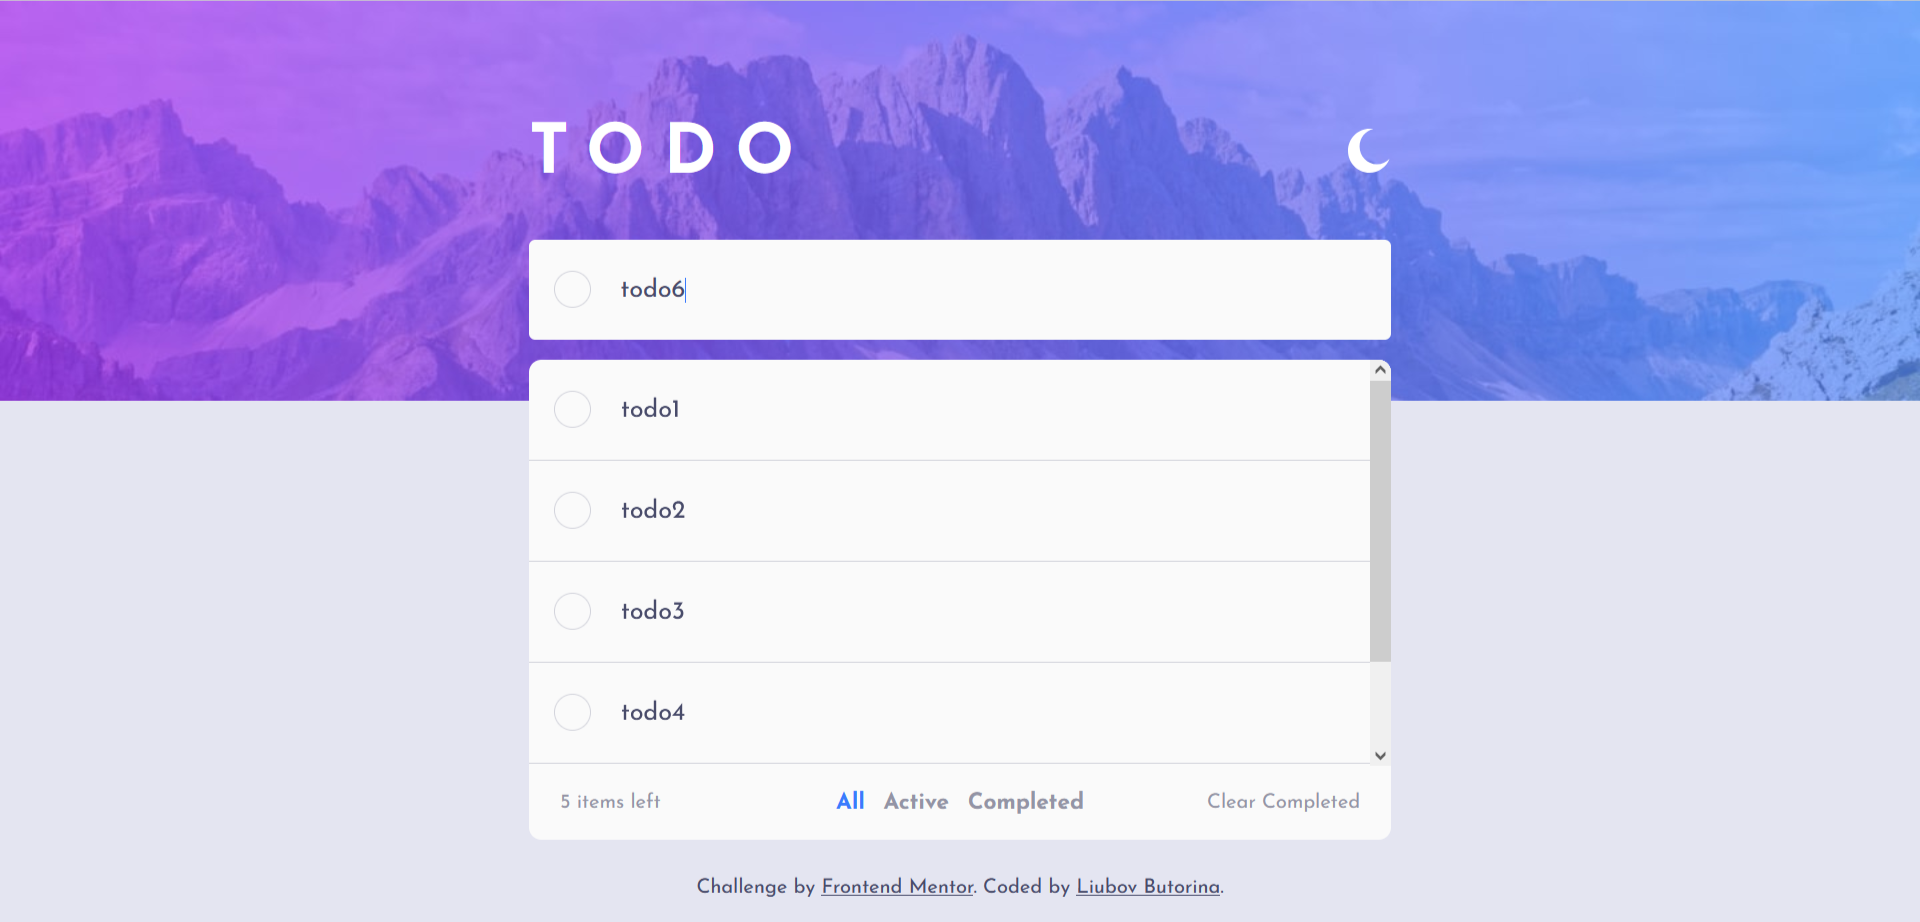
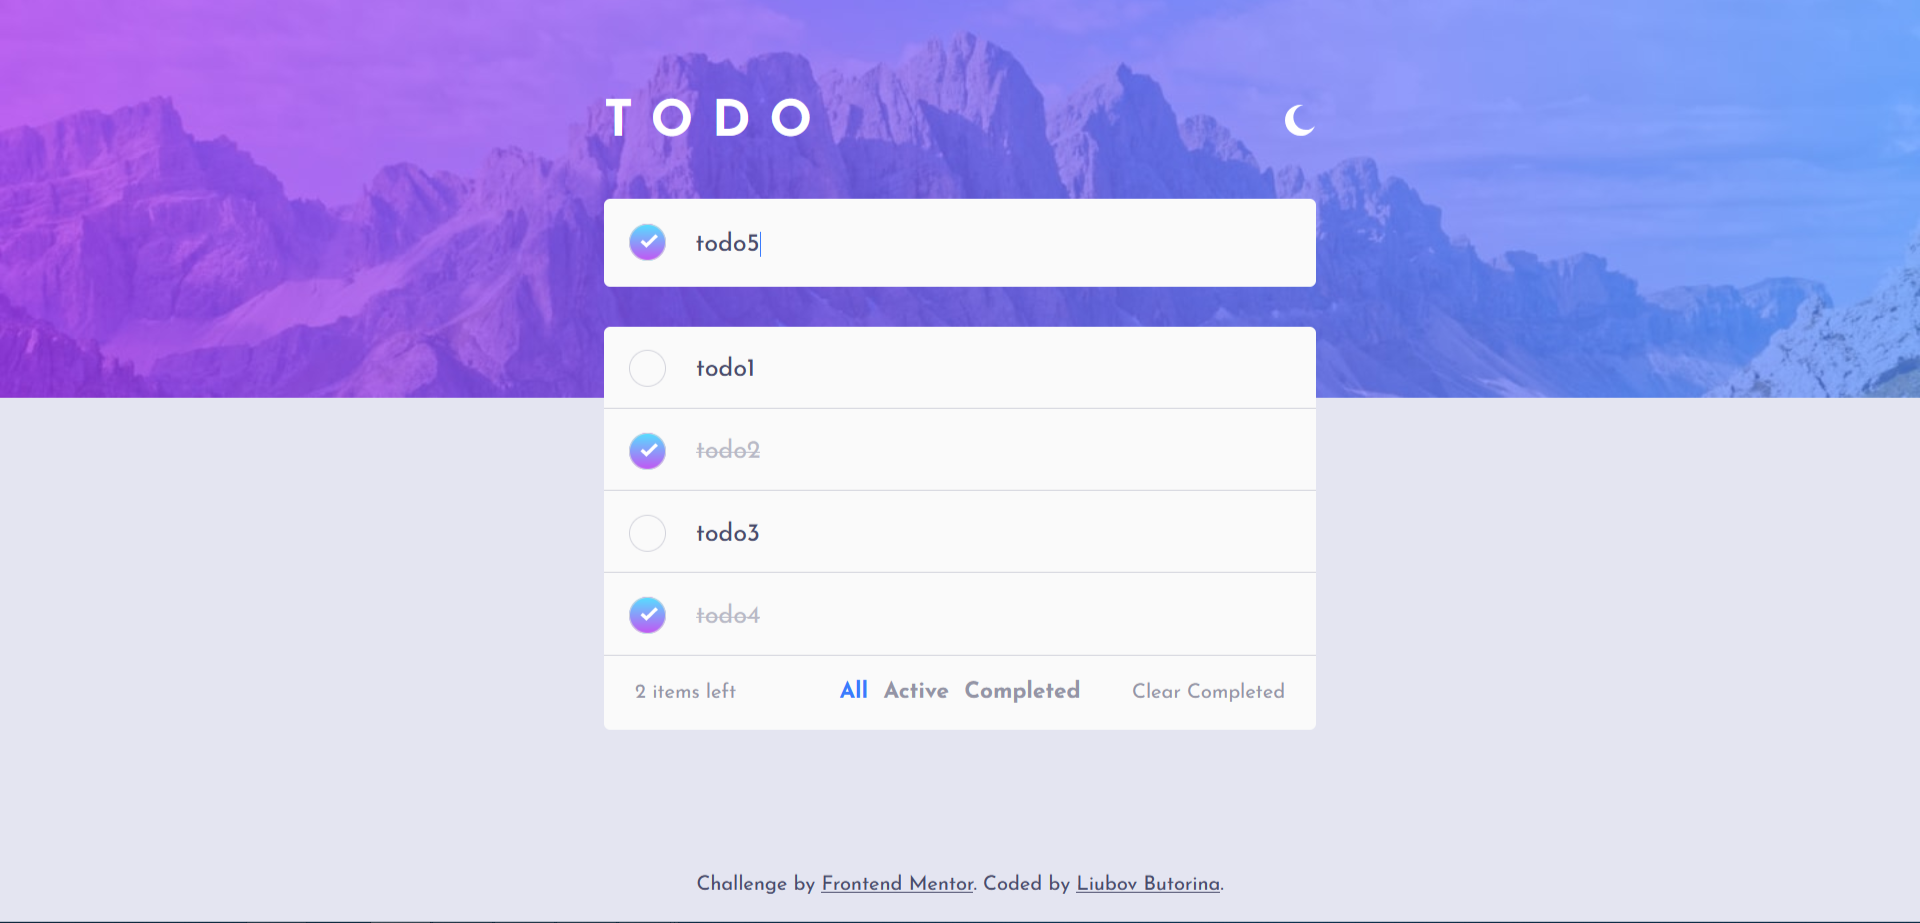
fix design

diff --git a/src/style.css b/src/style.css
@@ -66,7 +66,7 @@ body {
   margin-bottom: 2rem;
 
   width: 100%;
-  height: 70px;
+  height: 65px;
   
   background-color: hsl(0, 0%, 98%);
 
@@ -77,10 +77,10 @@ body {
   display: inline-block;
   position: relative;
   top: 20px;
-  left: 20px;
+  left: 24px;
 
-  width: 28px;
-  height: 28px;
+  width: 24px;
+  height: 24px;
 
   border-radius: 15px;
   border: thin solid hsl(233, 11%, 84%);
@@ -90,11 +90,11 @@ body {
 
 .icon-done {
   position: absolute;
-  top: 28px;
-  left: 29px;
+  top: 26px;
+  left: 31px;
   
-  width: 15px;
-  height: 12px;
+  width: 13px;
+  height: 11px;
 
   cursor: pointer;
 }
@@ -107,7 +107,7 @@ input[type="text"] {
   width: 85%;
   position: relative;
   top: 12px;
-  left: 36px;
+  left: 32px;
   font-family: inherit;
   font-size: 20px;
   border: none;
@@ -166,13 +166,13 @@ li {
 .done-item {
   display: inline-block;
   position: relative;
-  width: 28px;
-  height: 28px;
+  width: 24px;
+  height: 24px;
 
   border-radius: 15px;
   border: thin solid hsl(233, 11%, 84%);
-  top: 19px;
-  left: 20px;
+  top: 20px;
+  left: 24px;
   cursor: pointer;
 }
 
@@ -182,11 +182,11 @@ li {
 
 .icon-done-item {
   position: absolute;
-  left: 29px;
-  top: 27px;
+  left: 31px;
+  top: 26px;
 
-  width: 15px;
-  height: 12px;
+  width: 13px;
+  height: 11px;
   cursor: pointer;
   box-sizing: border-box;
   
@@ -194,8 +194,8 @@ li {
 
 .text-item {
   position: relative;
-  top: 10px;
-  left: 44px;
+  top: 13px;
+  left: 40px;
 
   color: hsl(235, 19%, 35%);
 
@@ -227,8 +227,8 @@ li {
 }
 
 .footer {
-  margin: 20px 5px;
-  font-size: 16px;
+  margin: 16px 5px;
+  font-size: 14px;
   color: hsl(236, 9%, 61%);
   
   display:flex;  
@@ -249,11 +249,10 @@ li {
   justify-content: space-around;
   flex-grow: 1;
   margin:auto;
-  width:300px;
+  width:270px;
 
   color: hsl(236, 9%, 61%);
   
-  font-size: 18px;
   font-weight: 700;
 
   cursor:pointer;
@@ -303,12 +302,12 @@ li {
 }
 
 .attribution {
-  margin: 20px auto;
+  margin: 30px auto;
   padding: 0 30px;
   text-align: center;
   
   color: hsl(235, 19%, 35%);
-  font-size: 16px;
+  font-size: 14px;
 }
 
 .attribution-dark {
